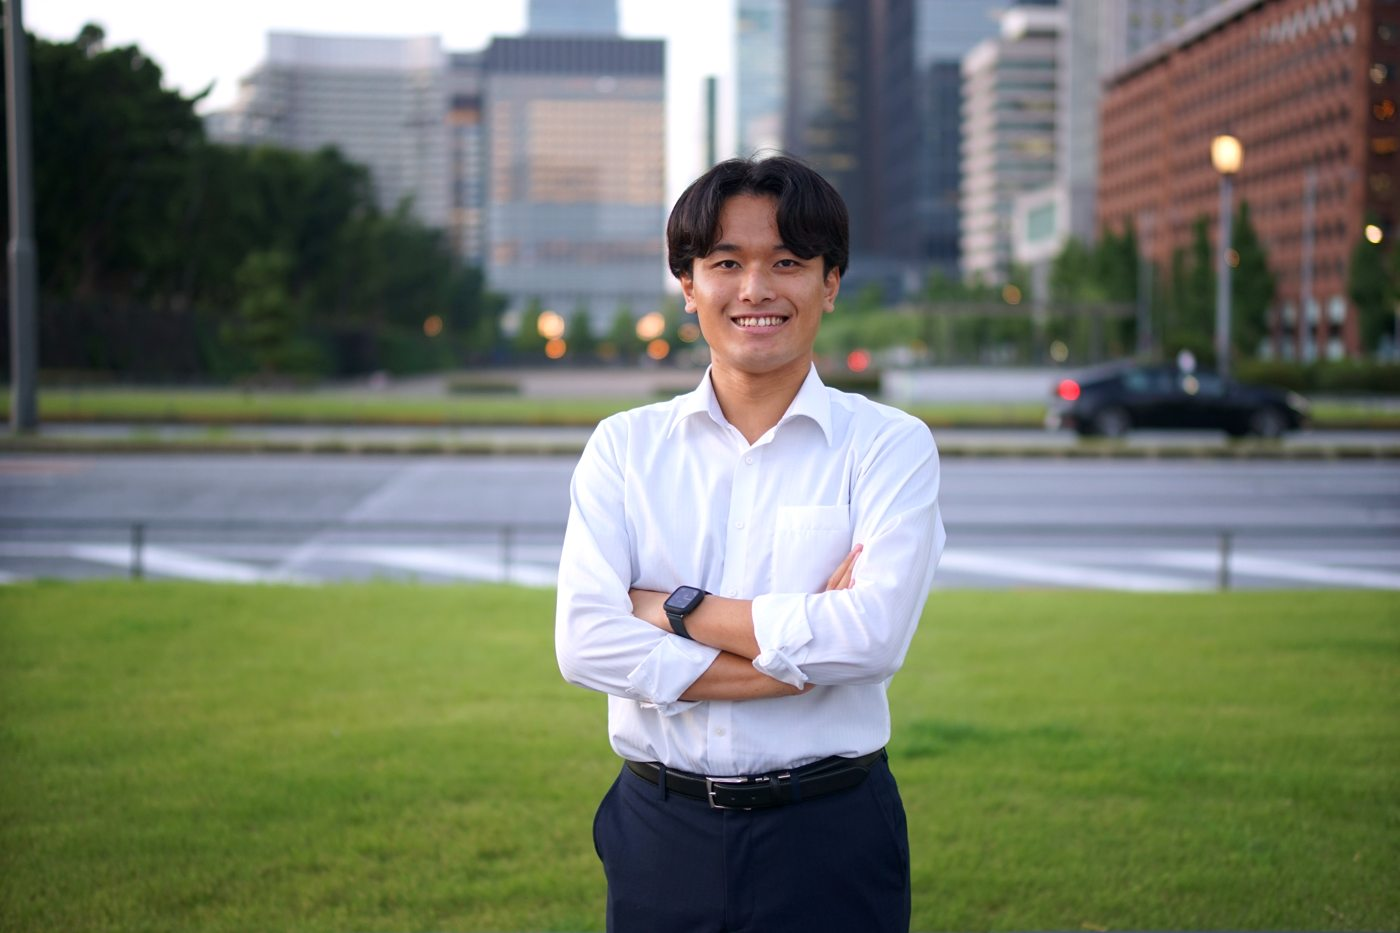
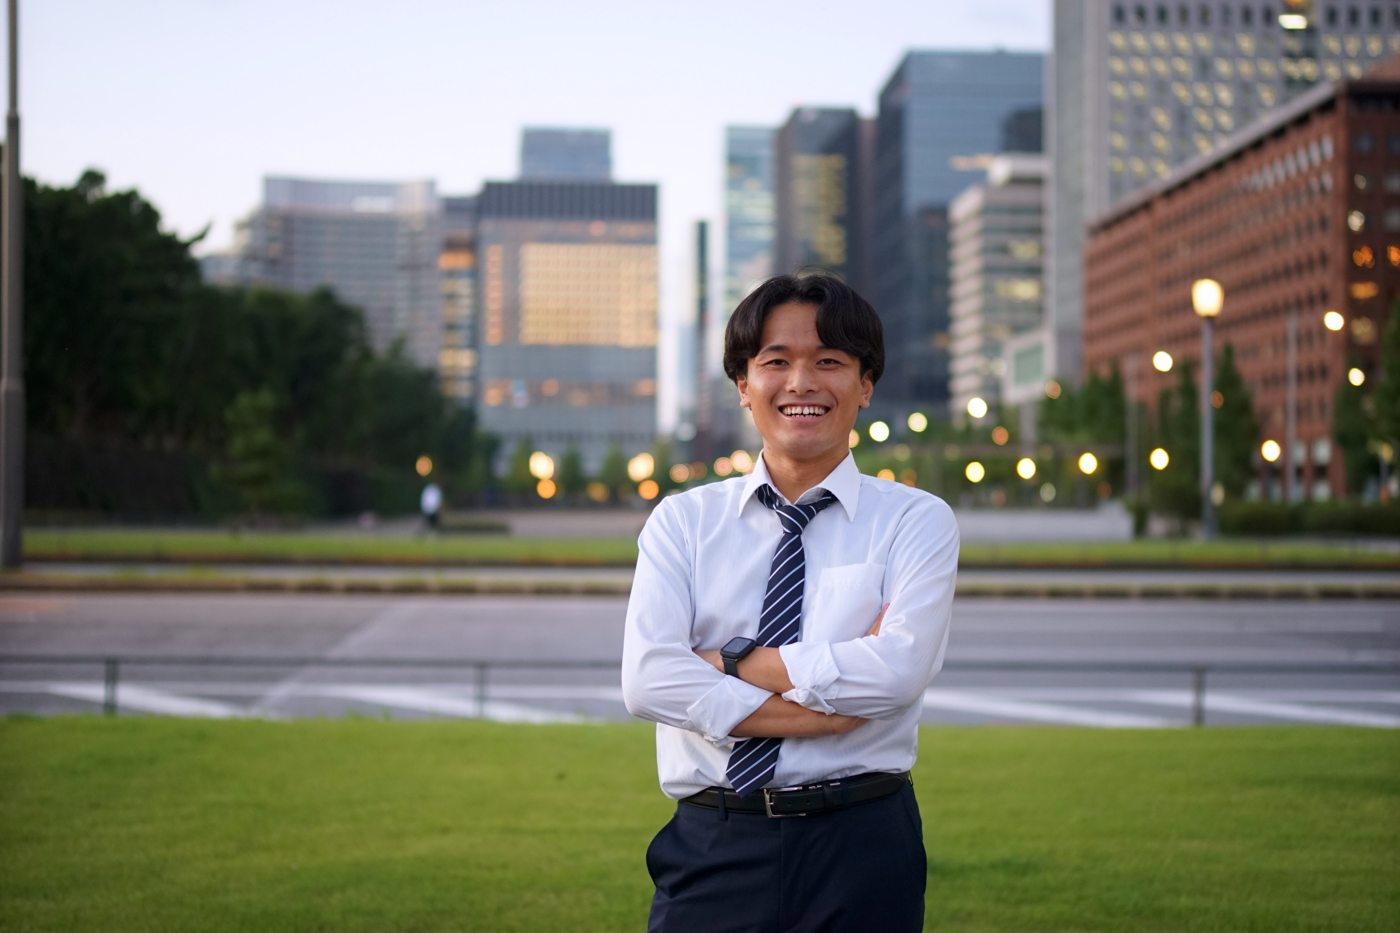
Use LinkedIn portrait on Profile; add ASUENE MVV block to Work
- Profile photo swapped to the same shot as the LinkedIn profile
  (white shirt + tie, Marunouchi at dusk), same unified treatment
- Work: new "The Mission I Work Under" card quoting ASUENE's public
  mission/vision (JA + official EN) and ten values, with a personal
  note on the three values I lean on hardest (source: corp.asuene.com)

Claude-Session: https://claude.ai/code/session_018XpxruLEPuBivPp7aSwfqs

diff --git a/src/data/work.ts b/src/data/work.ts
@@ -87,6 +87,34 @@ export const experience: Experience[] = [
   },
 ];
 
+/** ASUENE's public MVV (source: corp.asuene.com). Quoted because I genuinely run on it. */
+export const asueneMvv = {
+  label: "ASUENE MVV",
+  title: "The Mission I Work Under",
+  mission: {
+    ja: "次世代によりよい世界を。",
+    en: "Changing the world for the next generation.",
+  },
+  vision: {
+    ja: "次世代を変える会社",
+    en: "Leading transformative change for the next generation.",
+  },
+  values: [
+    "Radical Ownership, Total Accountability",
+    "Act with Integrity. Think from the Other Side.",
+    "Speed Is Our Ultimate Advantage",
+    "Productivity-Driven. Never Satisfied. Always Hungry.",
+    "One for All, All for One",
+    "Ownership of Results",
+    "All In on AI",
+    "Beyond No.1. Become the Category Leader.",
+    "Measure to Improve (KAIZEN)",
+    "Challenge with a Positive Mindset",
+  ],
+  note: "I didn't join in spite of the culture — the culture is a big part of why I'm there. Of the ten values, the three I lean on hardest are Radical Ownership, Speed Is Our Ultimate Advantage, and All In on AI: they describe how I already wanted to work. And the mission is my own axis, stated as a company.",
+  source: "https://corp.asuene.com/en/company",
+};
+
 export interface Education {
   school: string;
   program: string;

diff --git a/log.md b/log.md
@@ -72,3 +72,10 @@
   - projects/portfolio-site/src/pages/photography.astro
 - 何が分かったか: (要記入)
 - 次にやること: (要記入)
+
+## 2026-07-16 — auto-logged session
+- session: 2026-07-16T23:07:31 → 2026-07-16T23:08:14
+- touched (1):
+  - projects/portfolio-site/status.md
+- 何が分かったか: (要記入)
+- 次にやること: (要記入)
